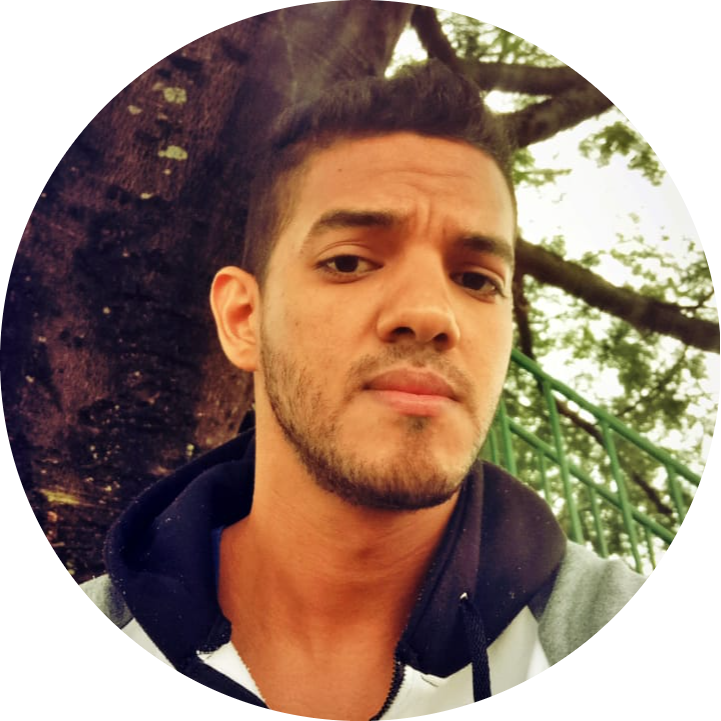
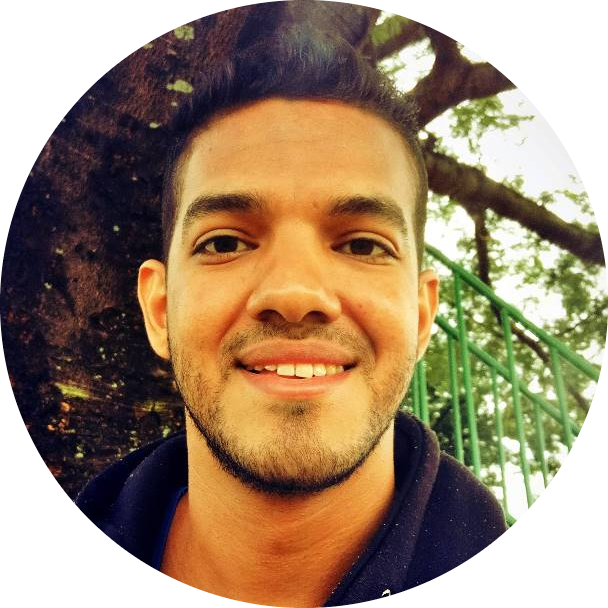
agg new image and new number

diff --git a/index.html b/index.html
@@ -202,7 +202,7 @@
         </li>
         <li class="social__list--item">
           <a
-            href="https://api.whatsapp.com/send?phone=584243482500&text=Hi,%20i%27m%20insterested%20on%20your%20services"
+            href="https://api.whatsapp.com/send?phone=584128869169&text=Hi,%20i%27m%20insterested%20on%20your%20services"
             target="_blank"
             class="social__list--link"
             aria-label="Start a Whatsapp conversation"
